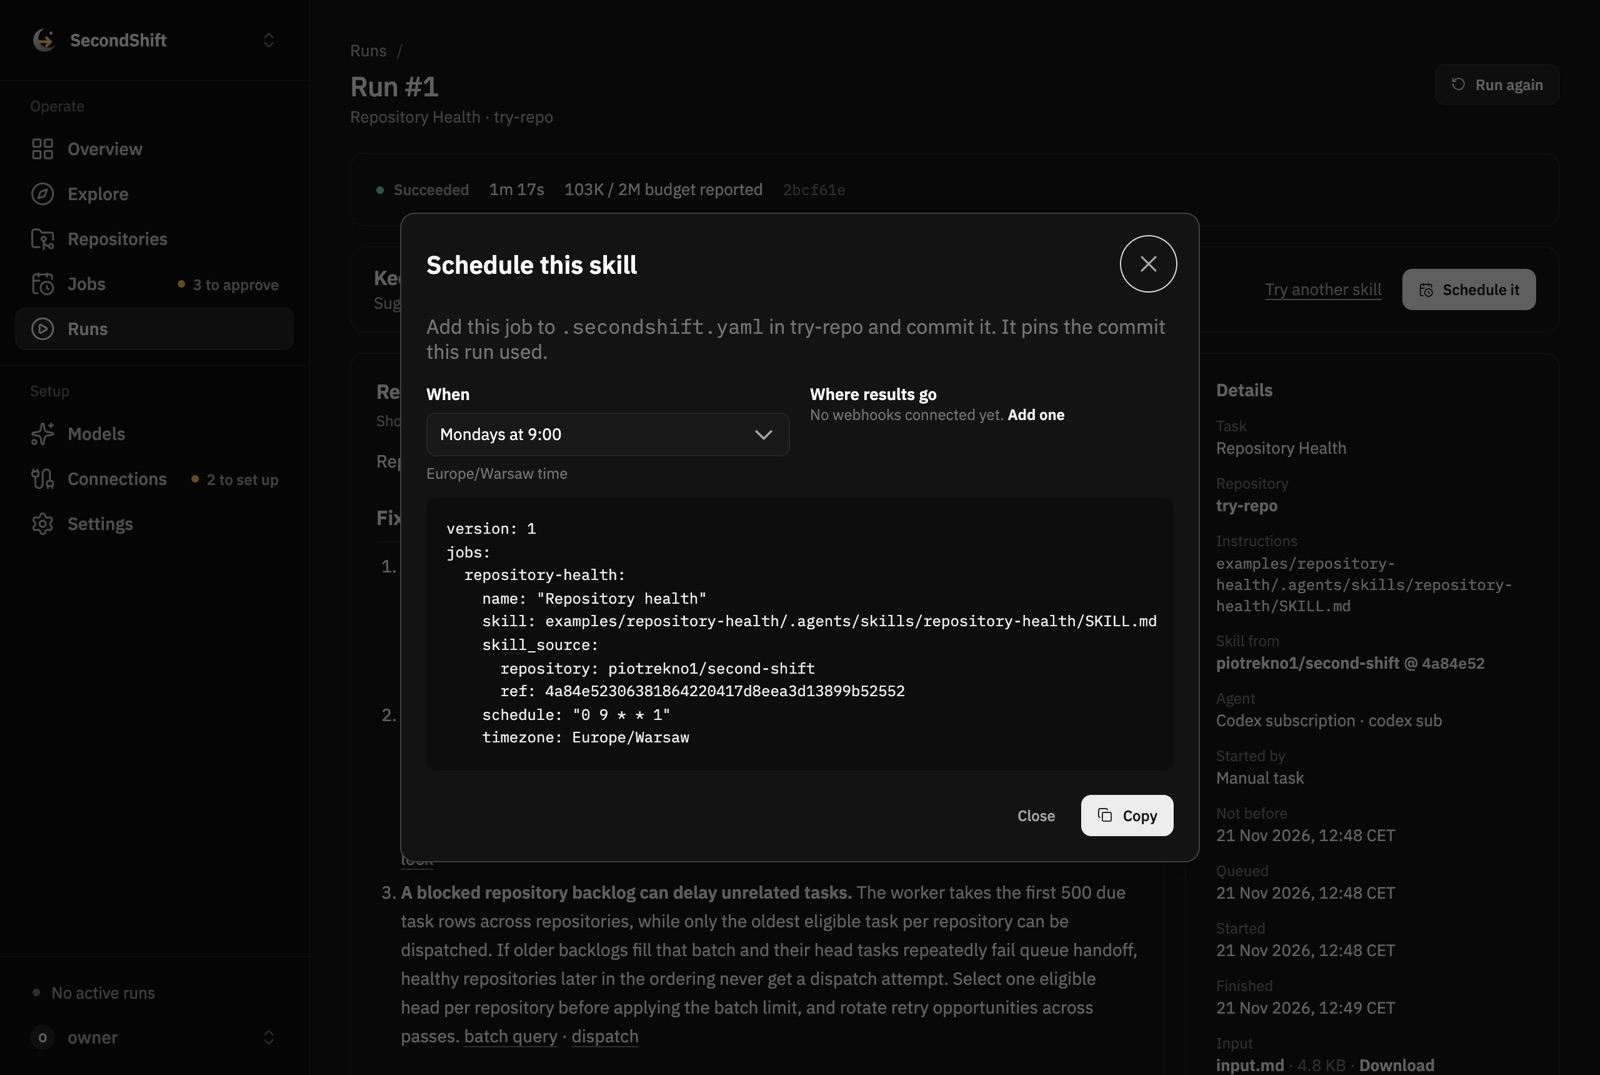
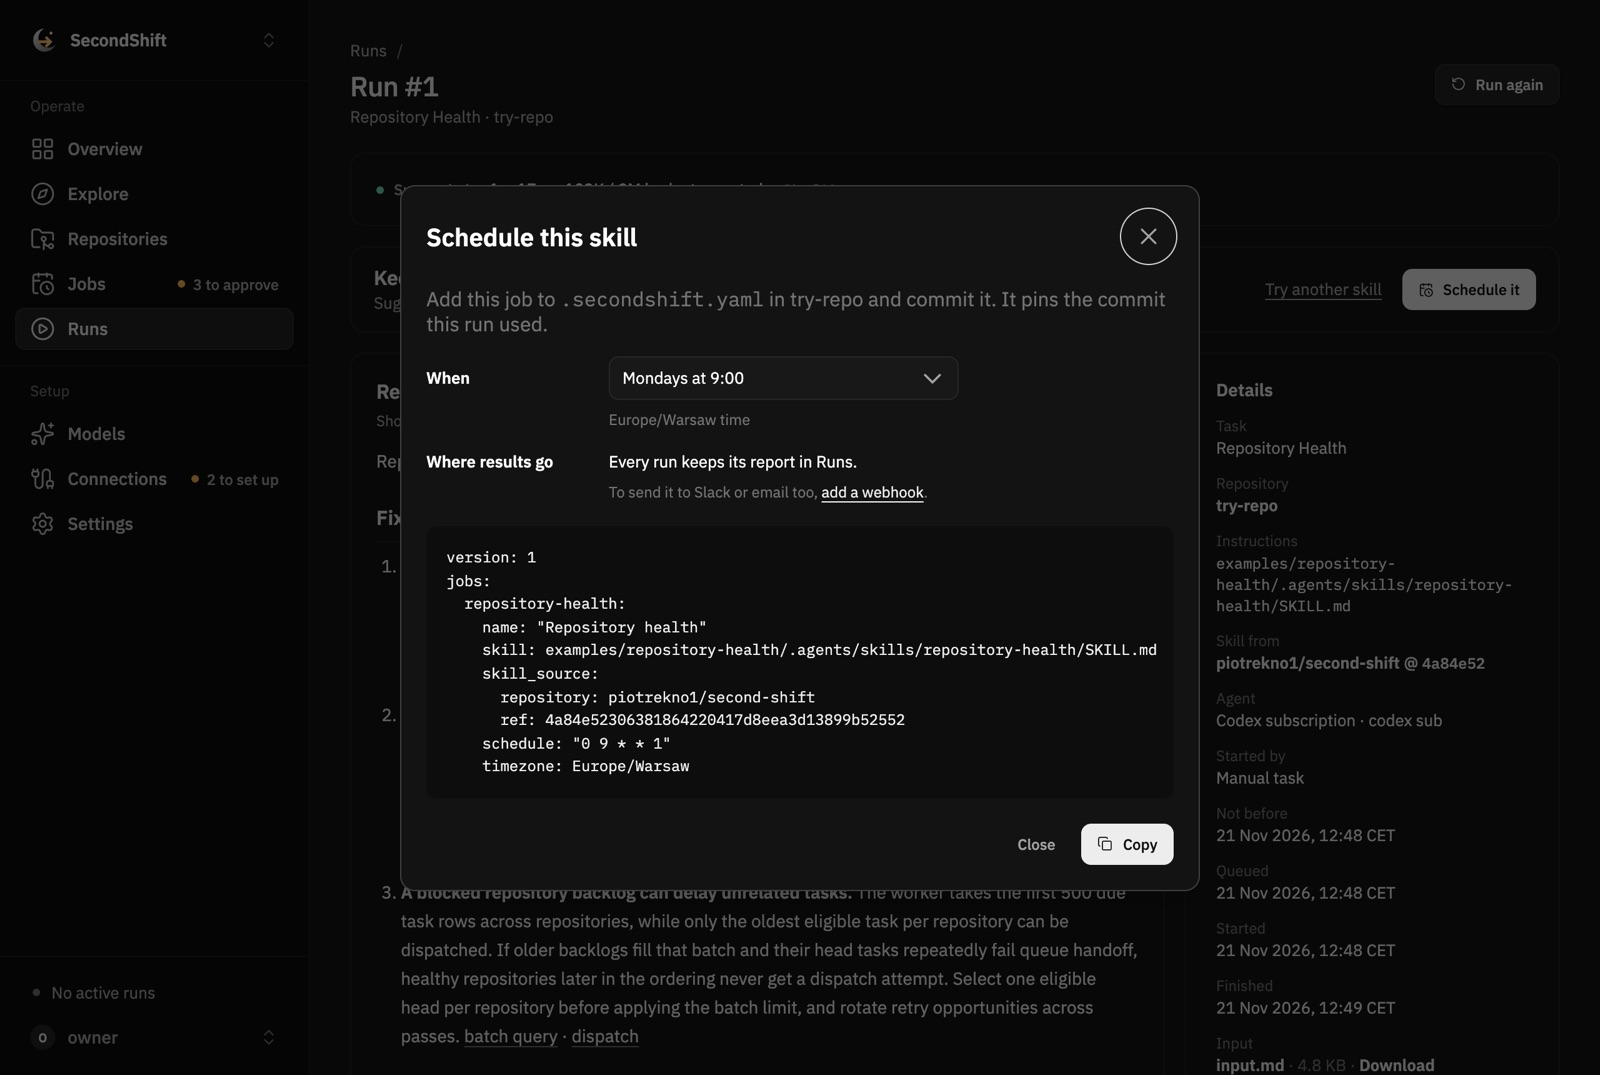
Lay out the schedule dialog as labeled rows
Where results go was a lone grey line beside a full-height select, which
read as broken when no webhook was connected. Each choice now gets a row,
the report's home in Runs is always named, and adding a webhook is a real
link.

diff --git a/dashboard/src/views/RunDetailView.vue b/dashboard/src/views/RunDetailView.vue
@@ -792,21 +792,24 @@ onUnmounted(stopPolling)
           pins the commit this run used.
         </p>
         <div class="schedule-choices">
-          <label class="schedule-field">
-            <span class="schedule-label">When</span>
+          <label class="schedule-label" for="schedule-when">When</label>
+          <div class="schedule-control">
             <Select
               v-model="scheduleChoice"
+              input-id="schedule-when"
+              class="schedule-select"
               :options="SCHEDULE_CHOICES"
               option-label="label"
               option-value="value"
             />
             <small v-if="scheduleChoice !== ScheduleChoice.Manual">{{ timezone }} time</small>
-          </label>
-          <fieldset class="schedule-field">
-            <legend class="schedule-label">Where results go</legend>
+          </div>
+          <span id="schedule-results" class="schedule-label">Where results go</span>
+          <div class="schedule-control" role="group" aria-labelledby="schedule-results">
+            <span>Every run keeps its report in Runs.</span>
             <label v-for="connection in notifyOptions" :key="connection.id" class="schedule-check">
               <input v-model="notifyChoice" type="checkbox" :value="connection.binding_key" />
-              <span>{{ connection.display_name || connection.binding_key }}</span>
+              <span>Send it to {{ connection.display_name || connection.binding_key }}</span>
             </label>
             <label v-if="offersIssues" class="schedule-check">
               <input v-model="issuesChoice" type="checkbox" />
@@ -817,10 +820,10 @@ onUnmounted(stopPolling)
               <span>Open a draft pull request with its changes</span>
             </label>
             <small v-if="!notifyOptions.length"
-              >No webhooks connected yet.
-              <RouterLink to="/connections" class="detail-link">Add one</RouterLink></small
+              >To send it to Slack or email too,
+              <RouterLink to="/connections" class="schedule-link">add a webhook</RouterLink>.</small
             >
-          </fieldset>
+          </div>
         </div>
         <pre class="run-output schedule-skill-yaml">{{ scheduleText }}</pre>
         <p v-if="usesServices.length" class="run-details-muted">
@@ -902,36 +905,54 @@ onUnmounted(stopPolling)
 }
 .schedule-choices {
   display: grid;
-  grid-template-columns: repeat(auto-fit, minmax(220px, 1fr));
-  gap: 16px;
-  margin: 14px 0 0;
+  grid-template-columns: 130px minmax(0, 1fr);
+  align-items: baseline;
+  gap: 18px 16px;
+  margin: 16px 0 0;
 }
-.schedule-field {
+.schedule-label {
+  font-size: var(--text-sm);
+  font-weight: 600;
+}
+.schedule-control {
   display: grid;
-  align-content: start;
-  gap: 6px;
+  justify-items: start;
+  gap: 8px;
   min-width: 0;
-  margin: 0;
-  padding: 0;
-  border: 0;
+  font-size: var(--text-sm);
 }
-.schedule-field small {
+.schedule-select {
+  width: min(100%, 280px);
+}
+.schedule-control small {
   color: var(--subtle);
   font-size: var(--text-xs);
 }
-.schedule-label {
-  padding: 0;
-  font-size: var(--text-sm);
-  font-weight: 600;
+.schedule-link {
+  color: var(--ink);
+  text-decoration: underline;
+  text-underline-offset: 3px;
 }
 .schedule-check {
   display: flex;
   align-items: center;
   gap: 8px;
-  font-size: var(--text-sm);
+}
+.schedule-check input {
+  margin: 0;
+  accent-color: var(--ink);
+}
+@media (max-width: 560px) {
+  .schedule-choices {
+    grid-template-columns: minmax(0, 1fr);
+    gap: 6px;
+  }
+  .schedule-control + .schedule-label {
+    margin-top: 12px;
+  }
 }
 .schedule-skill-yaml {
-  margin: 12px 0 0;
+  margin: 20px 0 0;
   white-space: pre;
   overflow-x: auto;
 }
